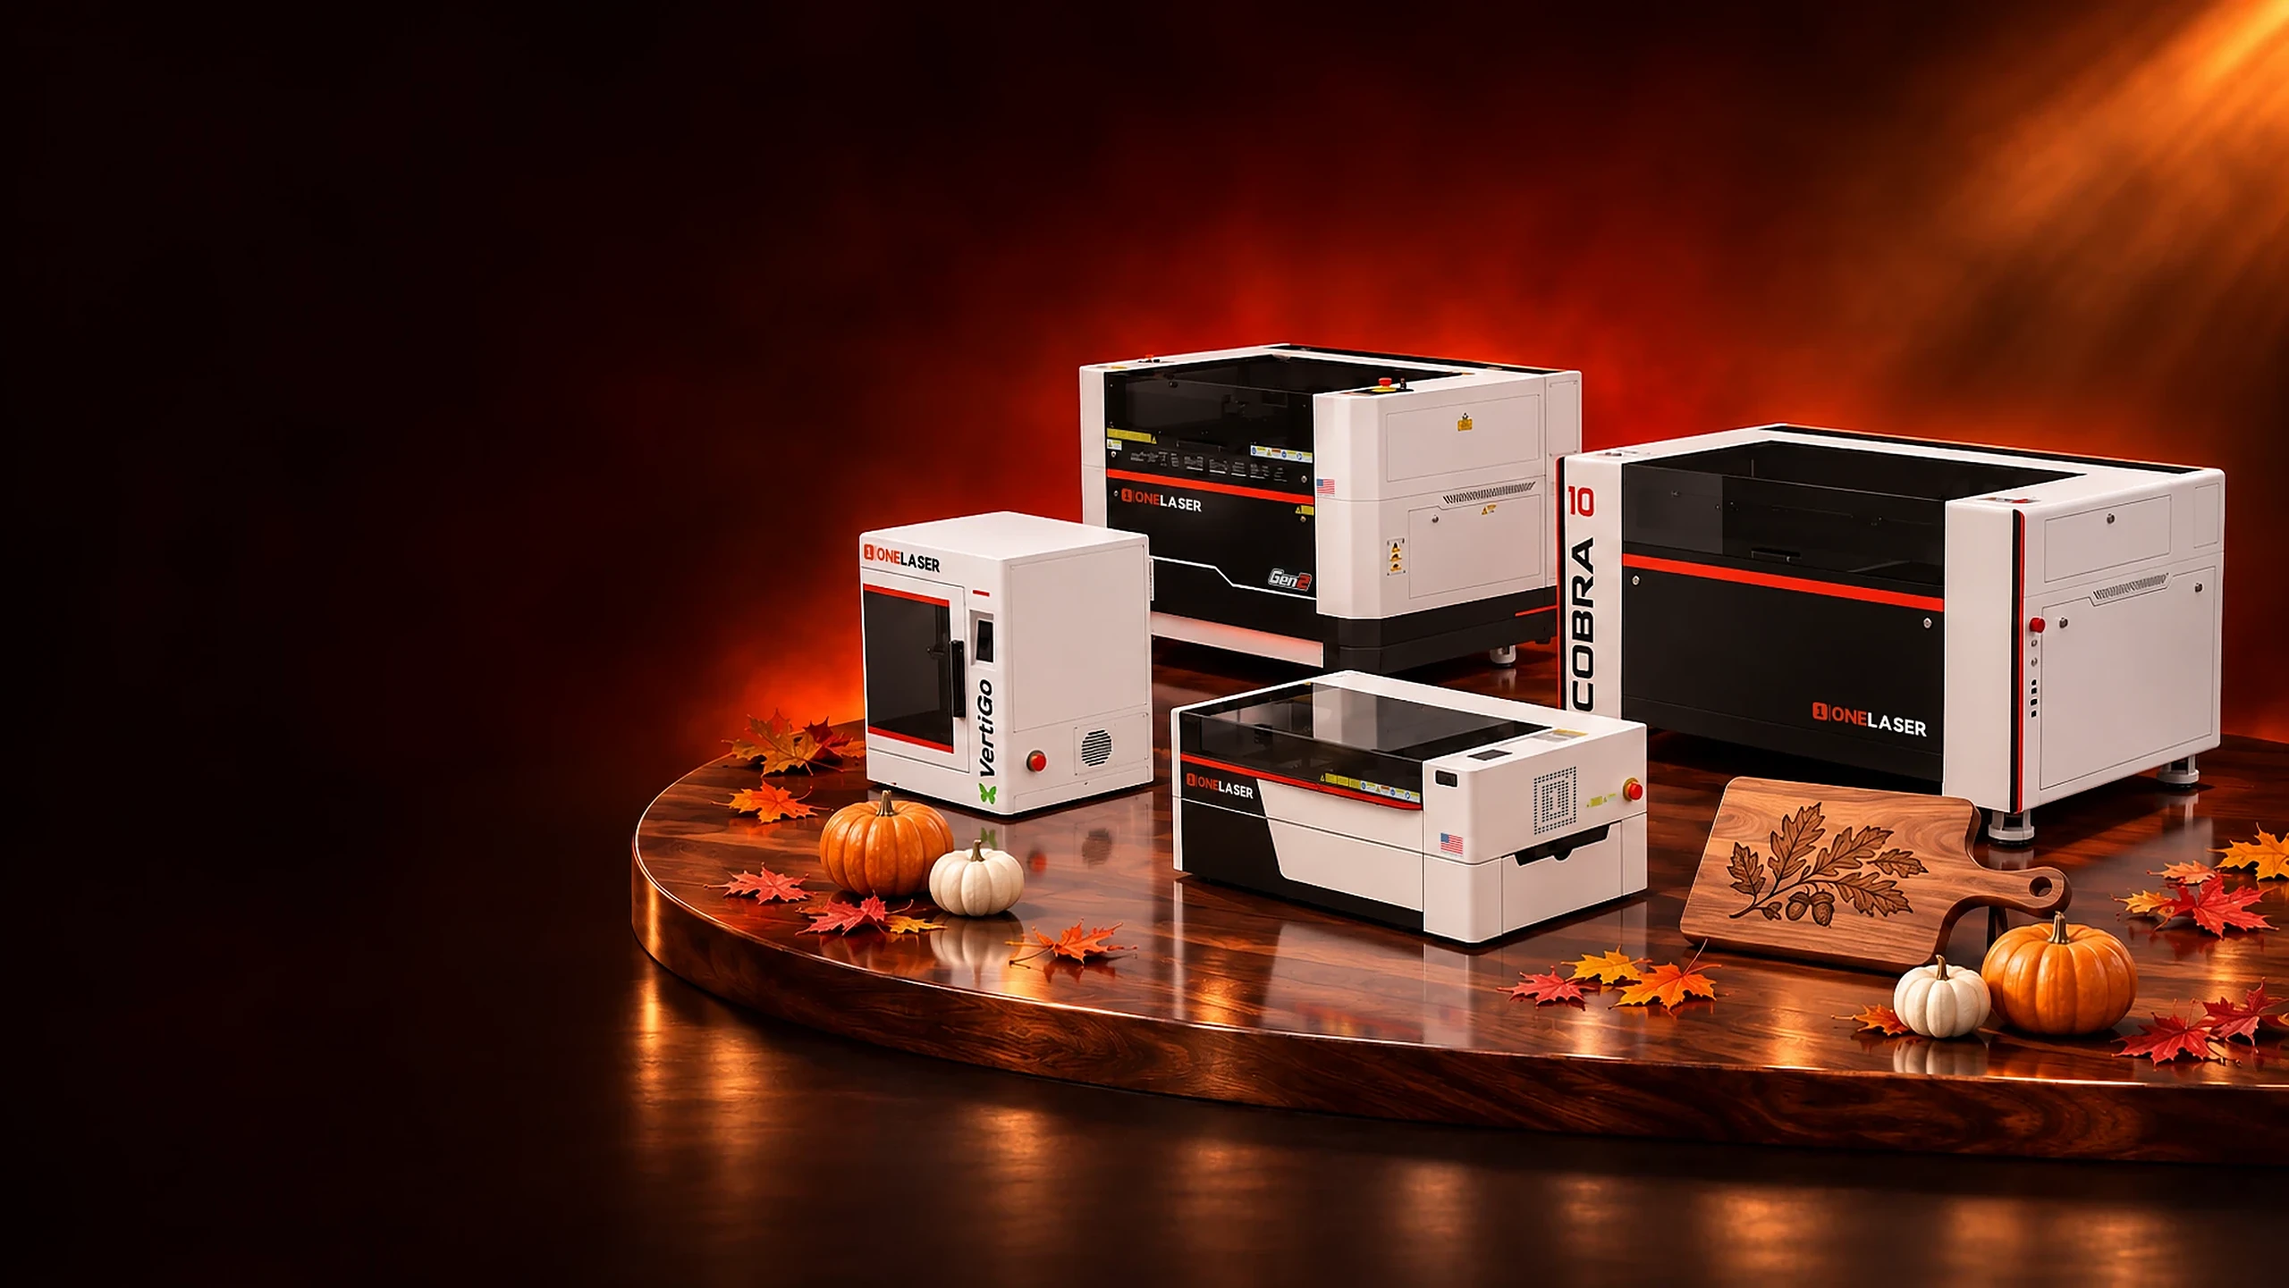
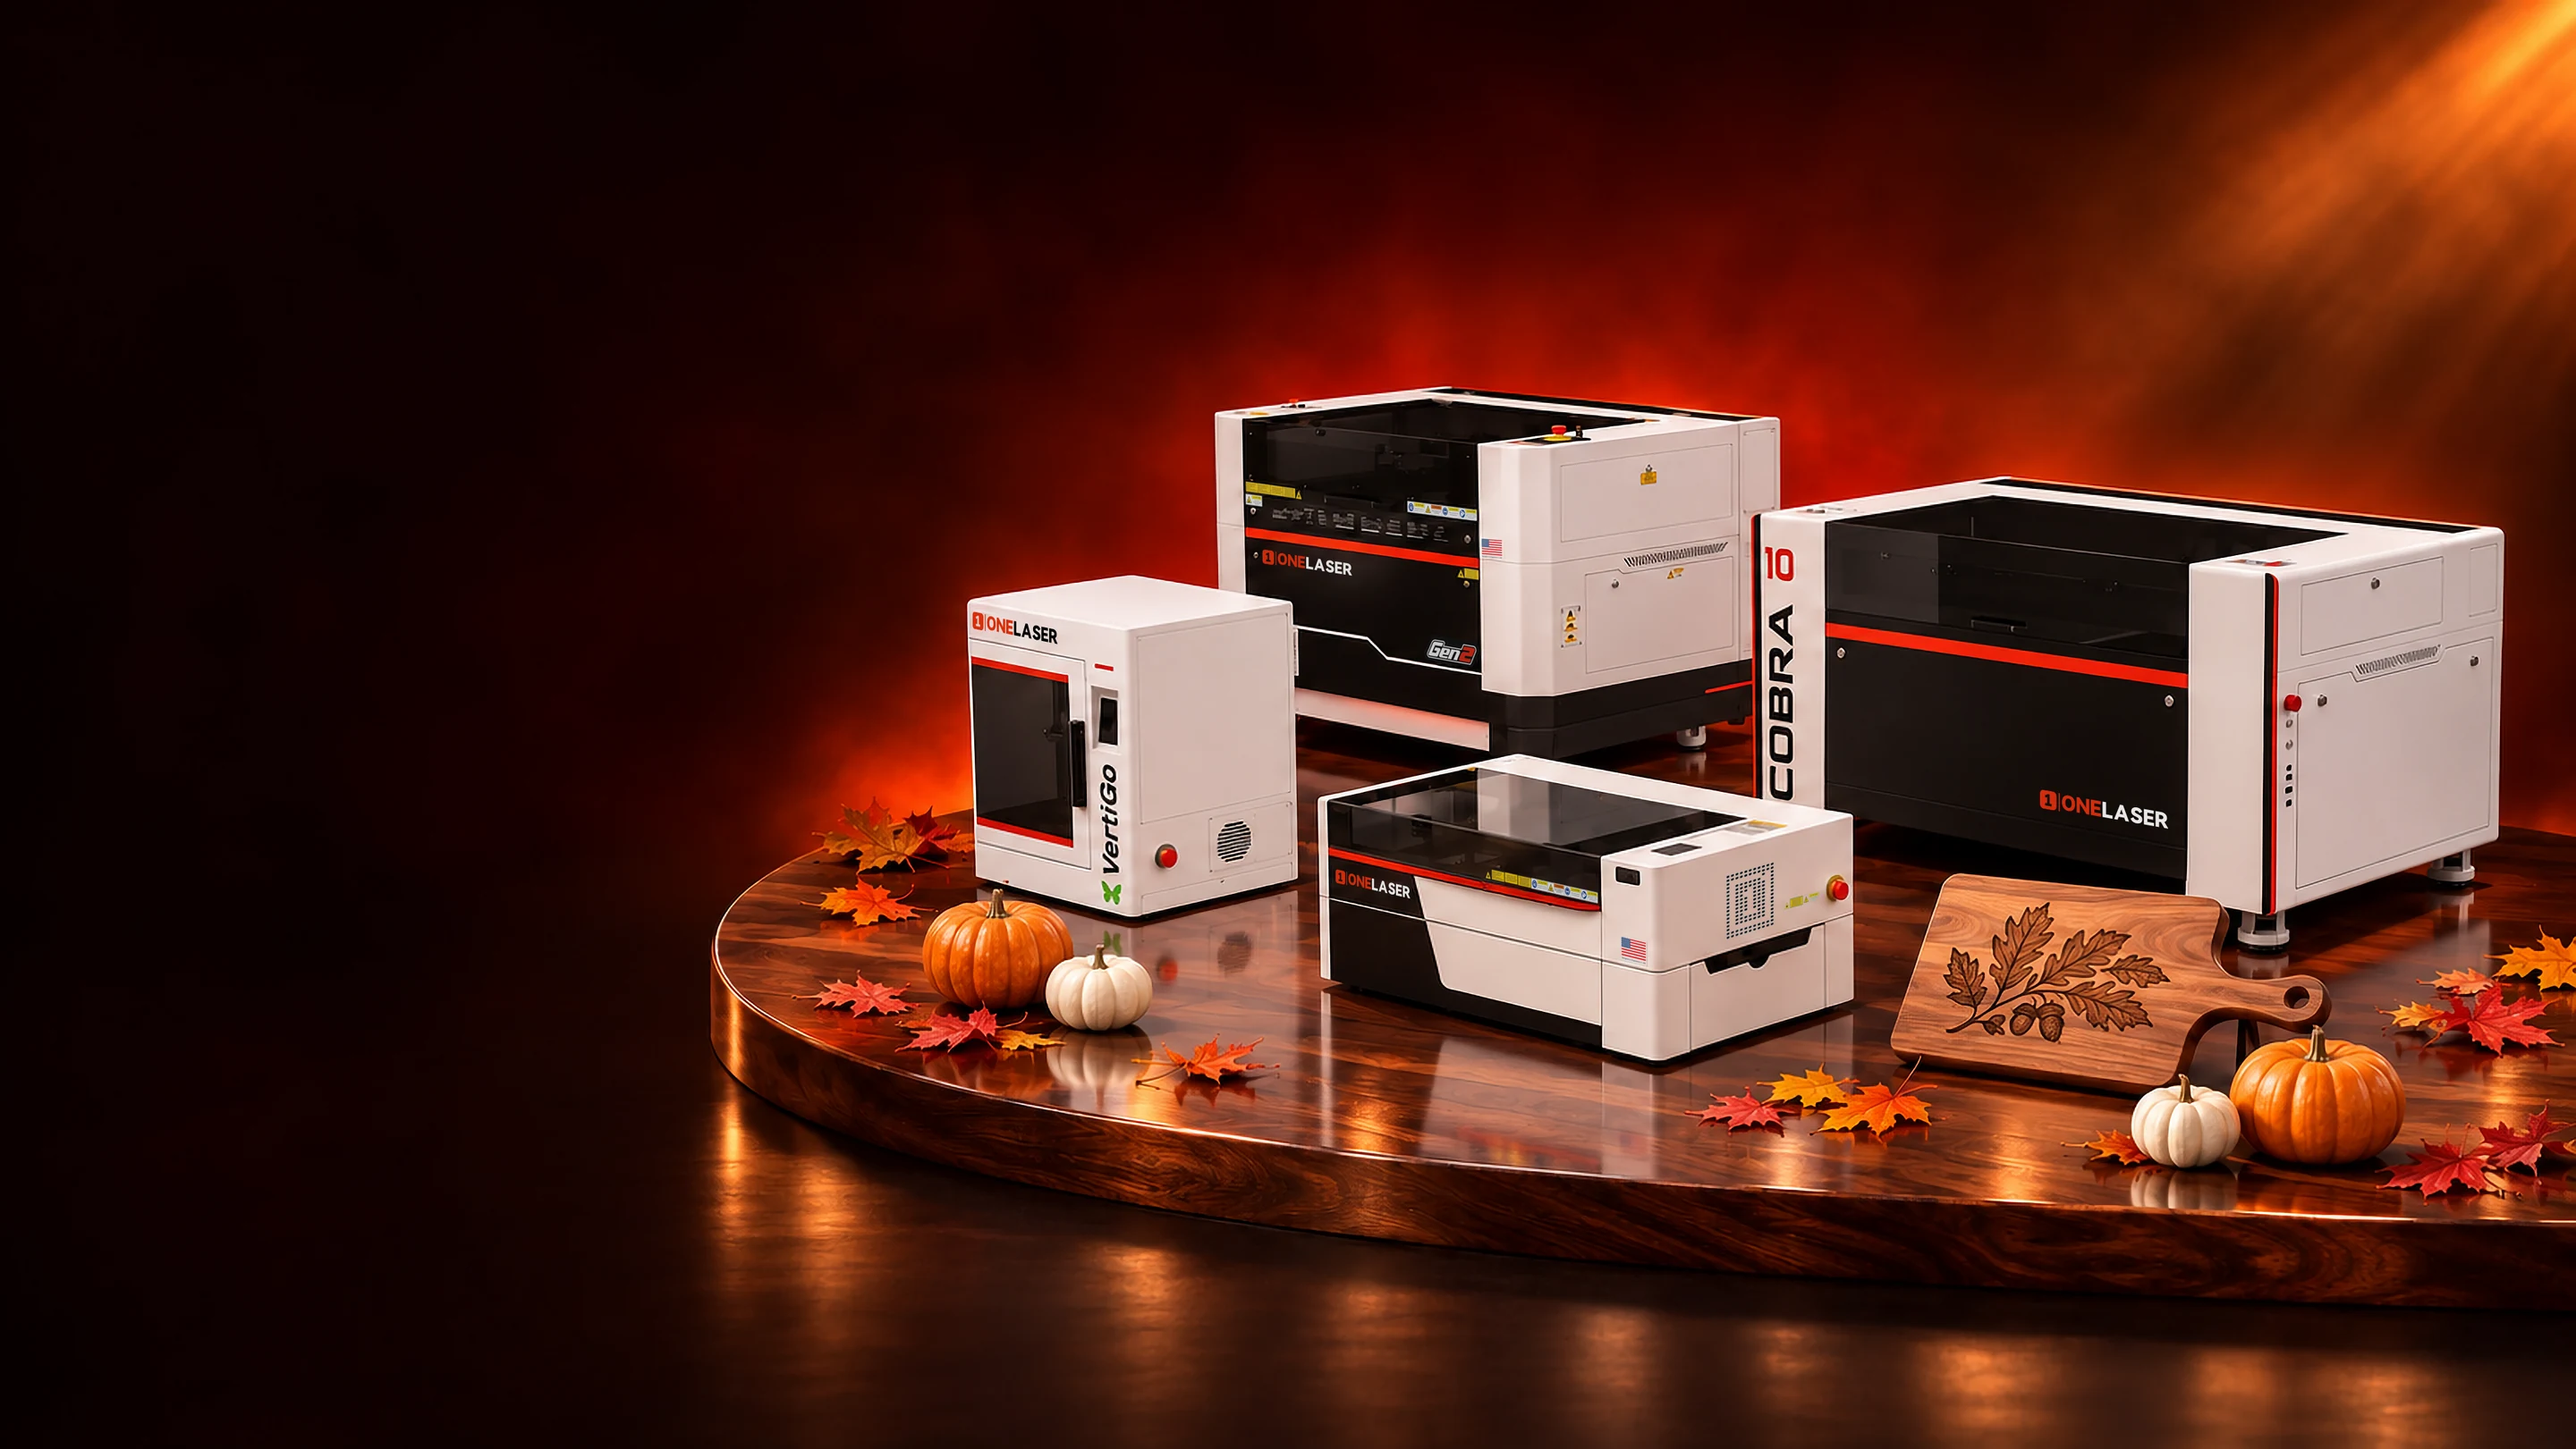
Hero: built from the 3840px original (2880/1920/1280 webp srcset, 1920 jpg for social previews)

Changed region(s): [[0.375, 0.406, 0.4062, 0.4372]]

diff --git a/index.html b/index.html
@@ -13,7 +13,7 @@
 <meta name="twitter:card" content="summary_large_image">
 <link rel="icon" type="image/svg+xml" href="assets/favicon.svg">
 <link rel="preload" href="fonts/Certia-Medium.otf" as="font" type="font/otf" crossorigin>
-<link rel="preload" href="assets/scenes/lineup.webp" as="image" type="image/webp">
+<link rel="preload" as="image" type="image/webp" href="assets/scenes/lineup.webp" imagesrcset="assets/scenes/lineup-1280.webp 1280w, assets/scenes/lineup-1920.webp 1920w, assets/scenes/lineup.webp 2880w" imagesizes="(max-width:760px) 100vw, 66vw">
 <script src="https://unpkg.com/@phosphor-icons/web@2.1.1"></script>
 <style>
 @font-face{font-family:"Certia";src:url("fonts/Certia-Regular.otf") format("opentype");font-weight:400;font-display:swap}
@@ -1179,7 +1179,7 @@ img.imin{animation:imin .5s var(--ease) both}
 
 <!-- hero -->
 <section class="kv" id="top">
- <div class="kv__art scene" data-k="lineup" data-tx=".75" data-tw=".46" data-twm=".96"><img src="assets/scenes/lineup.webp" alt="OneLaser VertiGo, Hydra 7 Pro, XRF 38W RF and Cobra 10 on a Thanksgiving table"><div class="pins" aria-hidden="true"><span class="pin" style="left:44%;top:39%"><b>VertiGo</b></span><span class="pin" style="left:58.5%;top:26%"><b>Hydra 7 Pro</b></span><span class="pin lo" style="left:62%;top:52%"><b>XRF 38W RF</b></span><span class="pin" style="left:83%;top:32%"><b>Cobra 10</b></span></div></div>
+ <div class="kv__art scene" data-k="lineup" data-tx=".75" data-tw=".46" data-twm=".96"><img src="assets/scenes/lineup.webp" srcset="assets/scenes/lineup-1280.webp 1280w, assets/scenes/lineup-1920.webp 1920w, assets/scenes/lineup.webp 2880w" sizes="(max-width:760px) 100vw, 66vw" alt="OneLaser VertiGo, Hydra 7 Pro, XRF 38W RF and Cobra 10 on a Thanksgiving table"><div class="pins" aria-hidden="true"><span class="pin" style="left:44%;top:39%"><b>VertiGo</b></span><span class="pin" style="left:58.5%;top:26%"><b>Hydra 7 Pro</b></span><span class="pin lo" style="left:62%;top:52%"><b>XRF 38W RF</b></span><span class="pin" style="left:83%;top:32%"><b>Cobra 10</b></span></div></div>
  <canvas class="embers" id="embers" aria-hidden="true"></canvas>
  <div class="kv__c">
   <span class="kick"><i class="stripe" aria-hidden="true"></i>Live now · ends Cyber Monday, Nov 30</span>
@@ -1405,7 +1405,7 @@ img.imin{animation:imin .5s var(--ease) both}
  <div class="lm__bd" data-lmx></div>
  <div class="lm__box" role="dialog" aria-modal="true" aria-labelledby="lmT">
   <button class="lm__x" type="button" data-lmx aria-label="Close"><i class="ph-bold ph-x"></i></button>
-  <div class="lm__art" aria-hidden="true"><img src="assets/scenes/lineup.webp" alt=""><div class="lm__plate"><span>Up to</span><b>$3,000</b><span>off</span></div></div>
+  <div class="lm__art" aria-hidden="true"><img src="assets/scenes/lineup-1920.webp" alt=""><div class="lm__plate"><span>Up to</span><b>$3,000</b><span>off</span></div></div>
   <div class="lm__c">
    <form class="lm__f" id="lmF" novalidate>
     <span class="kick"><i class="stripe" aria-hidden="true"></i><span id="lmK">Black Friday Deals end Cyber Monday</span></span>
